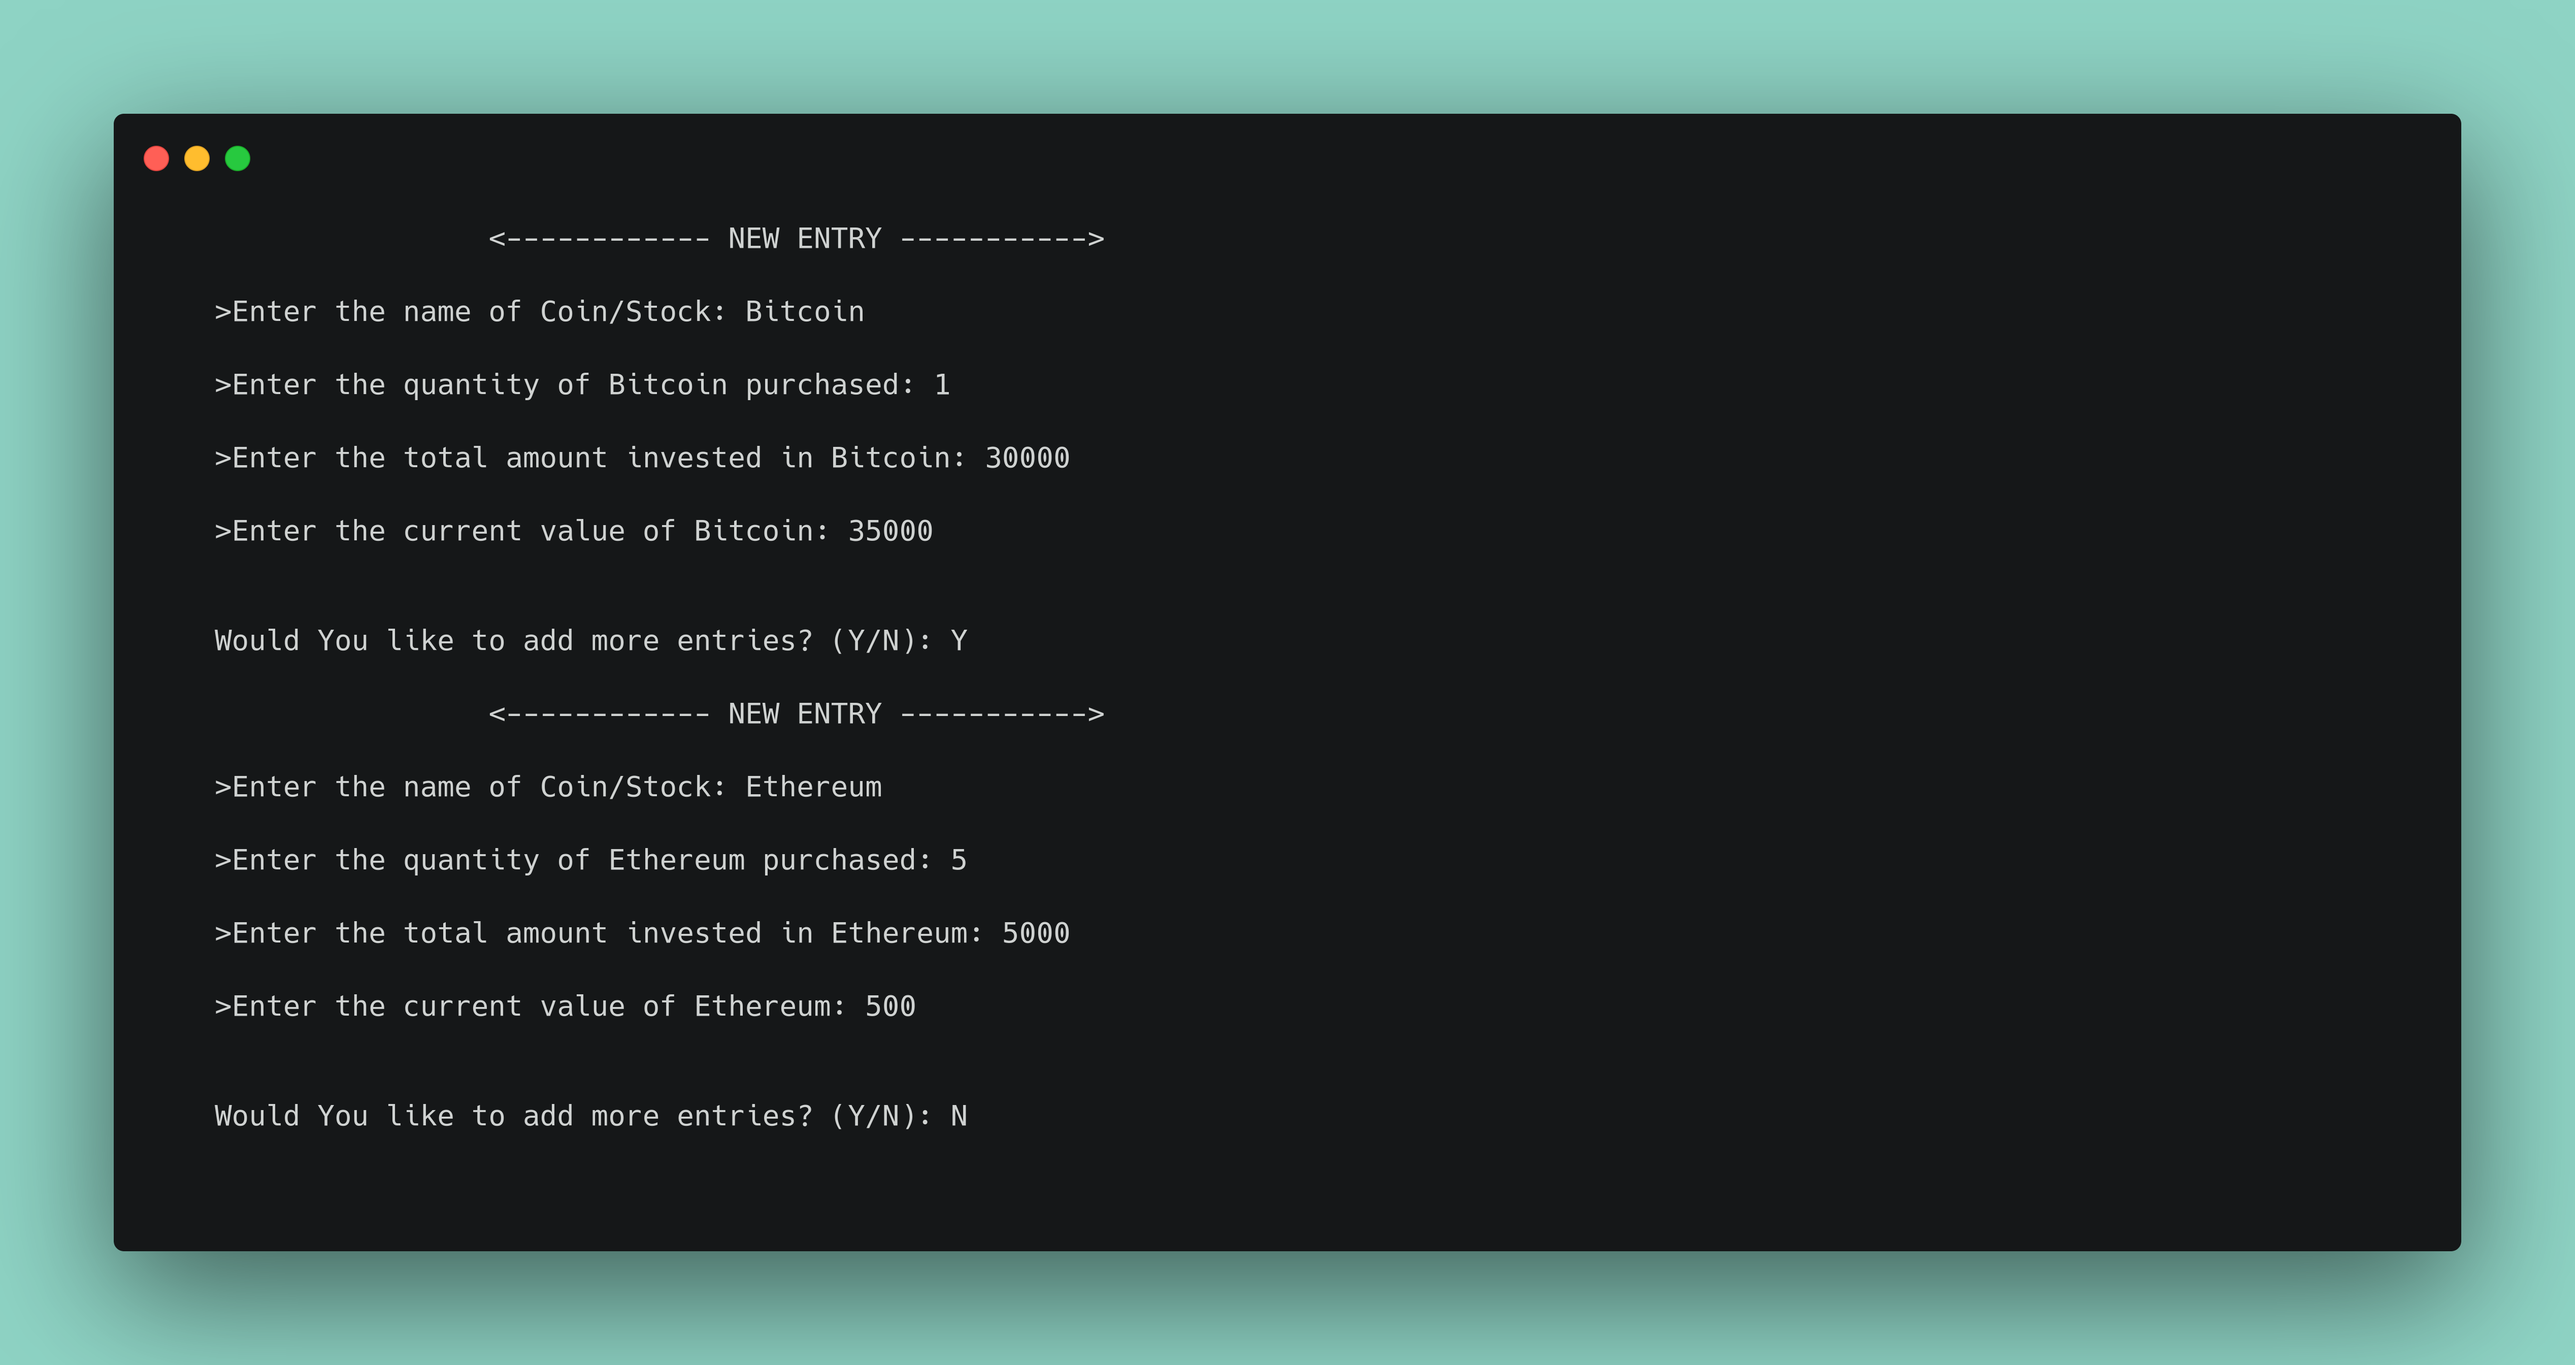
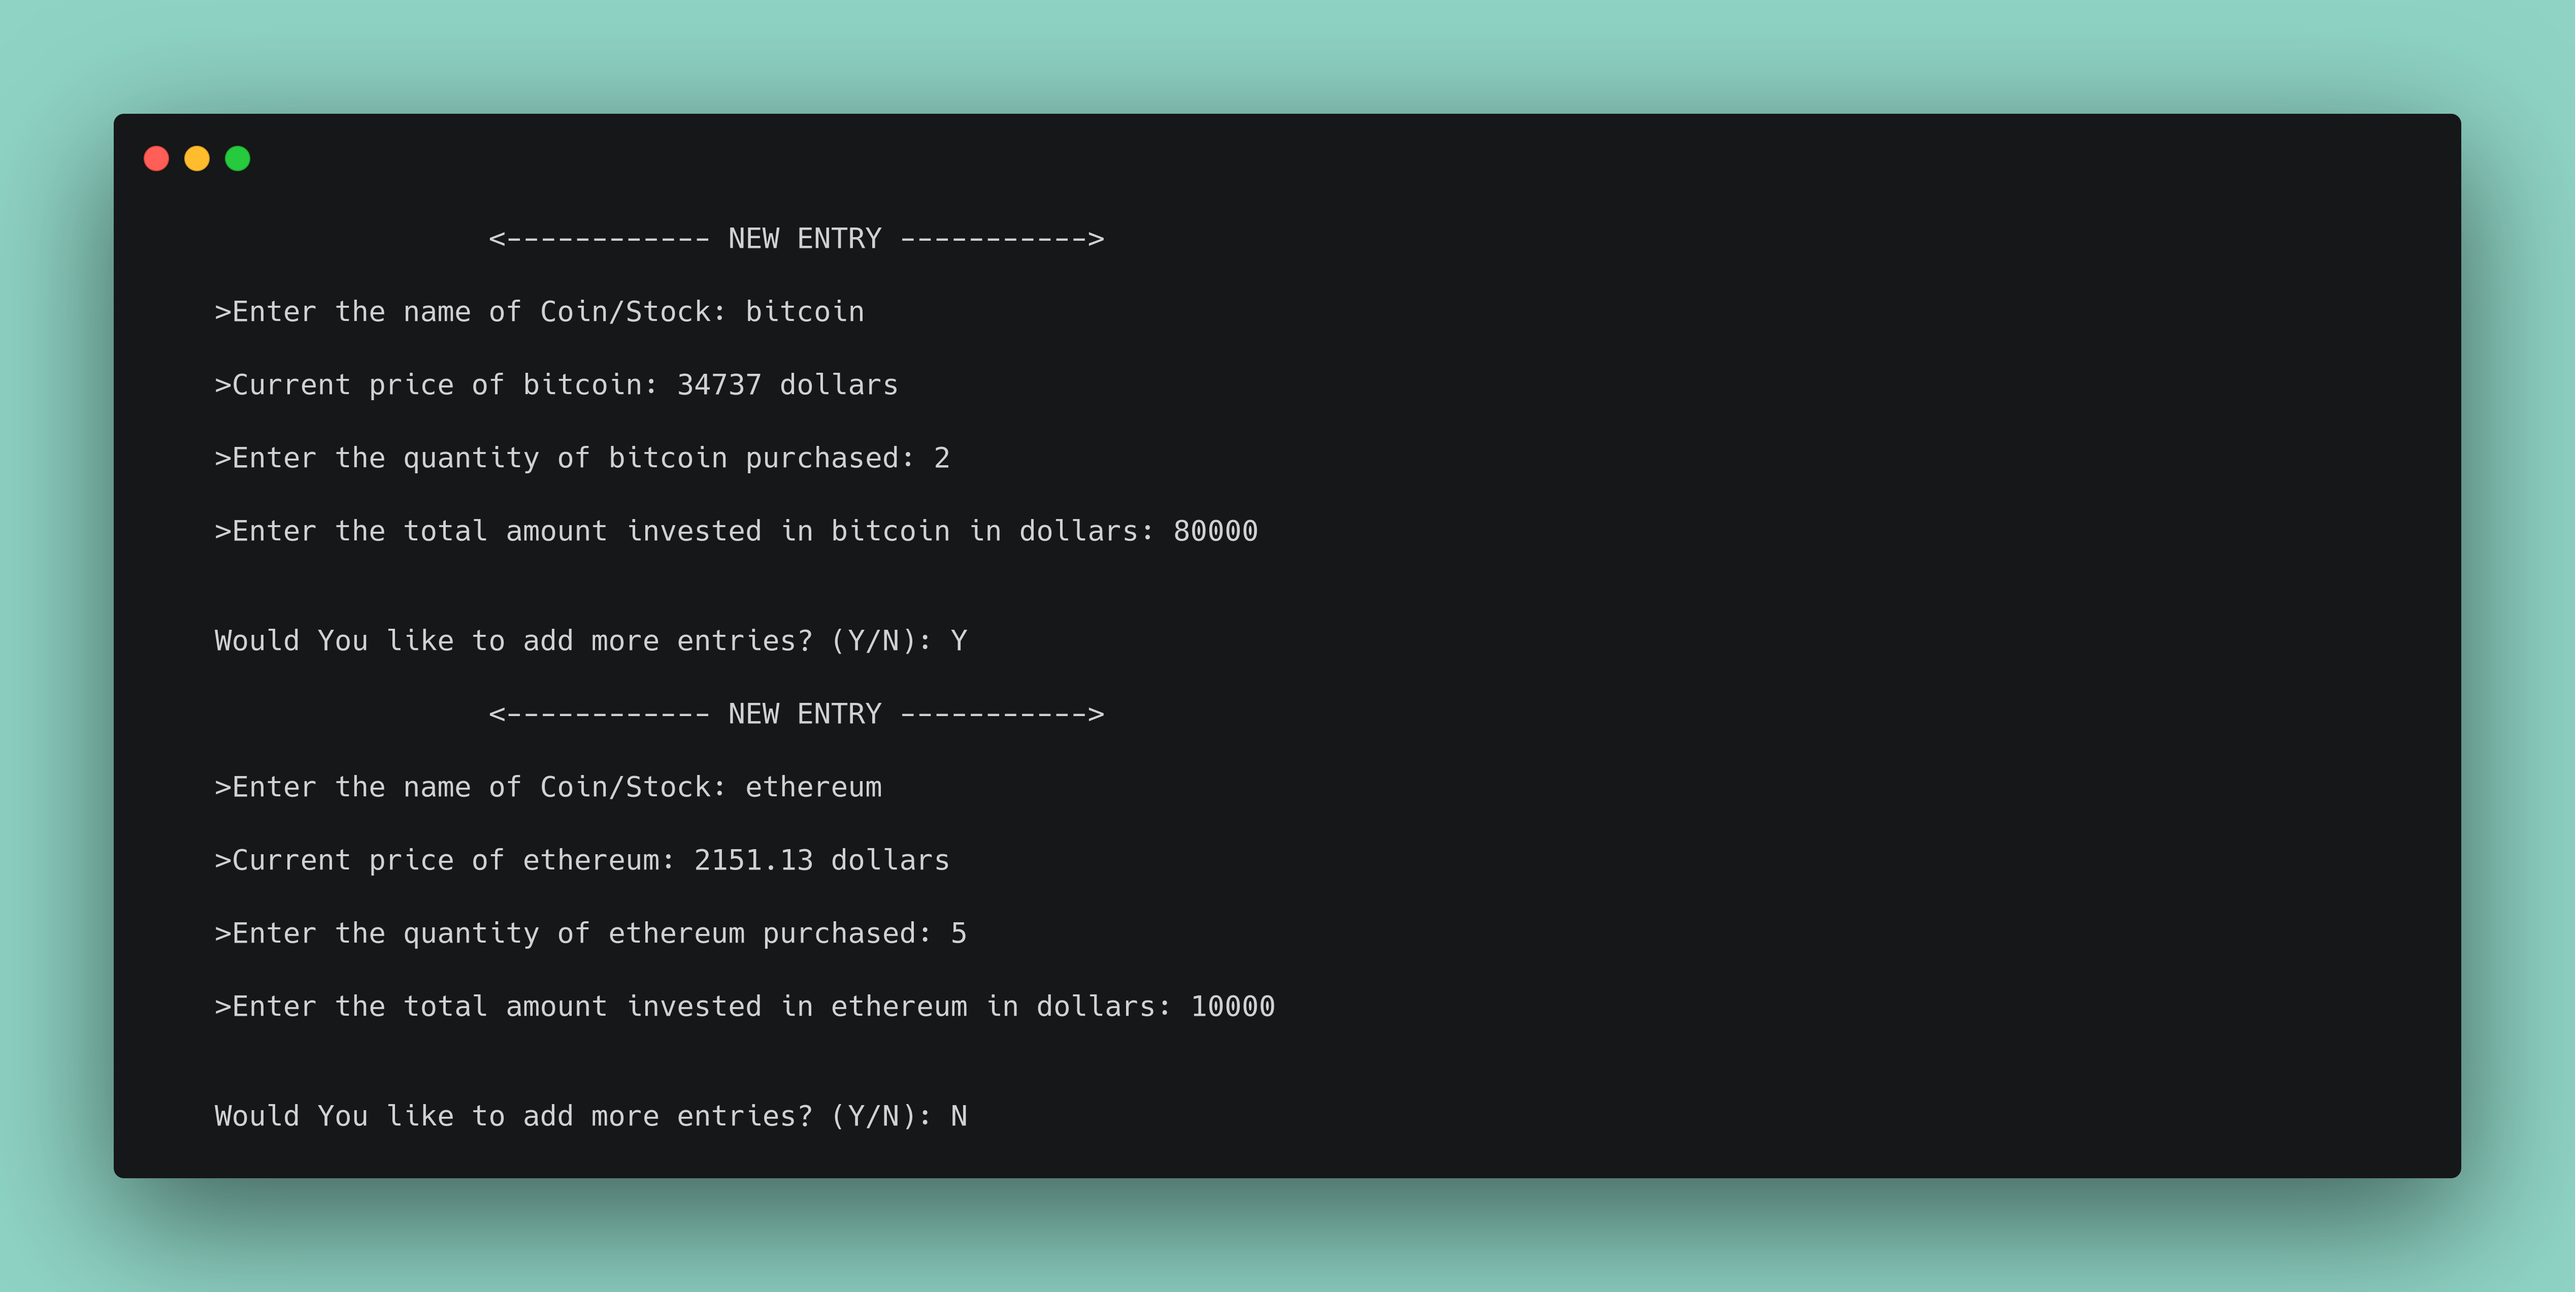
Updated Readme
Updated readme

Updated readme

diff --git a/README.md b/README.md
@@ -2,7 +2,7 @@
 ![banner](./imgs/head_banner.png)
 # About
 
-A Portfolio calculator for Cryptocurrencies and Stocks investments, written in C++
+A Portfolio calculator for Cryptocurrency investments, written in C++
 
 It takes in investment information from the user and displays a detailed analysis of their portfolio that can be saved locally and thus help the user in keeping records of their portfolios.
 
@@ -14,7 +14,12 @@ It takes in investment information from the user and displays a detailed analysi
 
 - The portfolio analysis can be saved locally in a path-specified text file.
 
+# API Used
+
+[CoinGecko API V3](https://www.coingecko.com/api/documentations/v3) - For getting the current prices of the coins.
 # Installing Dependencies
+
+## CMake
 
  It uses CMake to build the program so it needs to be installed on the system.
 
@@ -32,6 +37,39 @@ sudo apt-get install cmake
 ```
 sudo dnf install cmake
 ```
+
+## libcurl
+
+This program uses libcurl for making an api call, libcurl is a free and easy-to-use client-side URL transfer library. It is highly portable, it builds and works identically on numerous platforms
+
+To know more about libcurl, please refer: 
+[https://curl.se/libcurl/](https://curl.se/libcurl/)
+
+- Run update command to update package repositories and get latest package information.
+```
+sudo apt-get update -y
+```
+- Run the install command with -y flag to quickly install the packages and dependencies.
+
+
+```
+sudo apt-get install -y libcurl-dev
+```
+
+- Then explicitly install one of the packages.
+
+```
+sudo apt-get install <package-name>
+```
+
+<h2>or</h2>
+ 
+ - For Ubuntu
+
+```
+sudo apt-get install libcurl4-openssl-dev
+```
+
 # Build Instructions
 
 - Cloning this repository
@@ -68,7 +106,7 @@ $ ./port-calc
 
 - Check your portfolio analysis and respond with y/n whether you would like to save the file or not.
 
-![banner](./imgs/port-info.png)
+![banner](./imgs/port.png)
 
 - If responded with y for saving the file, enter the file path where you'd like to save this portfolio data.
 
@@ -80,12 +118,6 @@ $ ./port-calc
 
 You can also checkout this video I made regarding usage - [https://youtu.be/IHnDor9emng](https://youtu.be/IHnDor9emng)
 # Comments
-
-- Build instructions for Windows OS will be added soon.
-
-- I designed this program with cryptocurrencies in mind but it can very well be used for stocks.
-
-- Presently, I am inputting the current price of the tokens from the user. I understand how inconvenient this is and will automate this with updates in the future.
 
 - The recommendations for any token are based on general consensus and are NOT financial advices.
 
